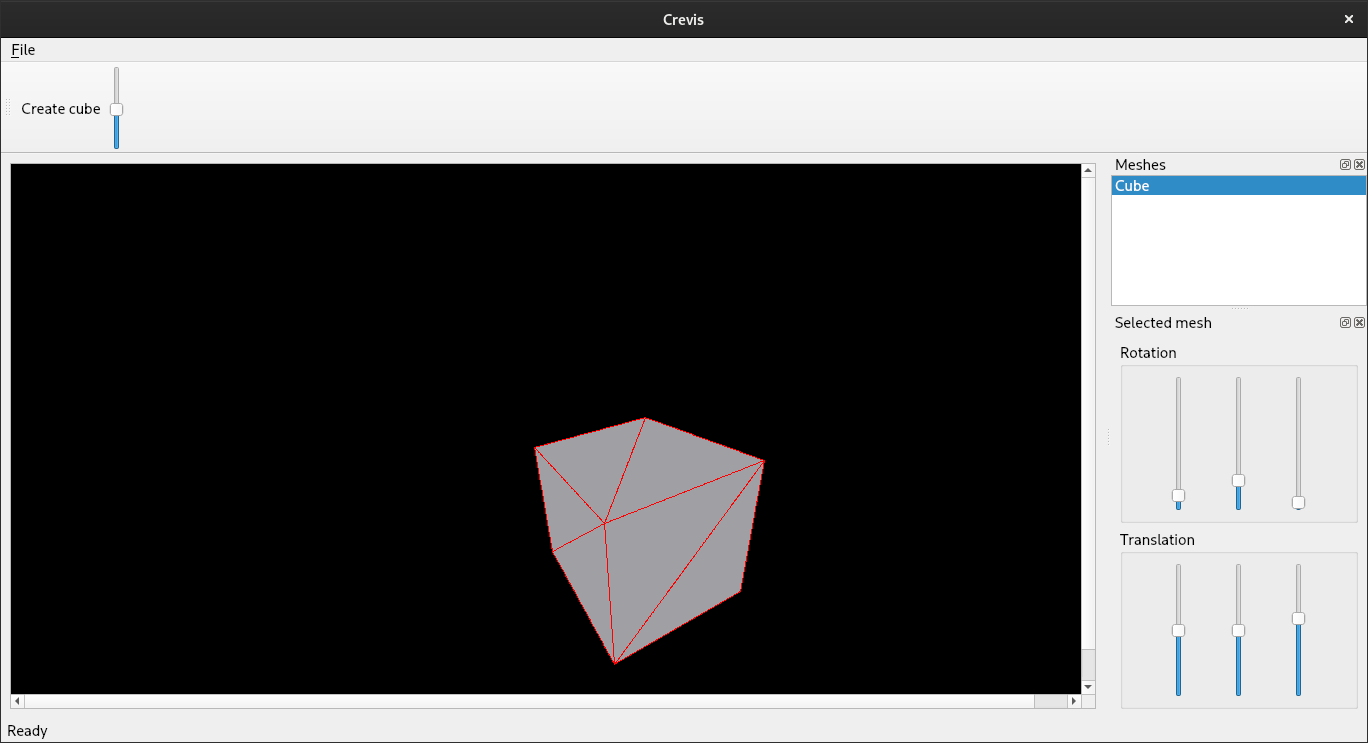
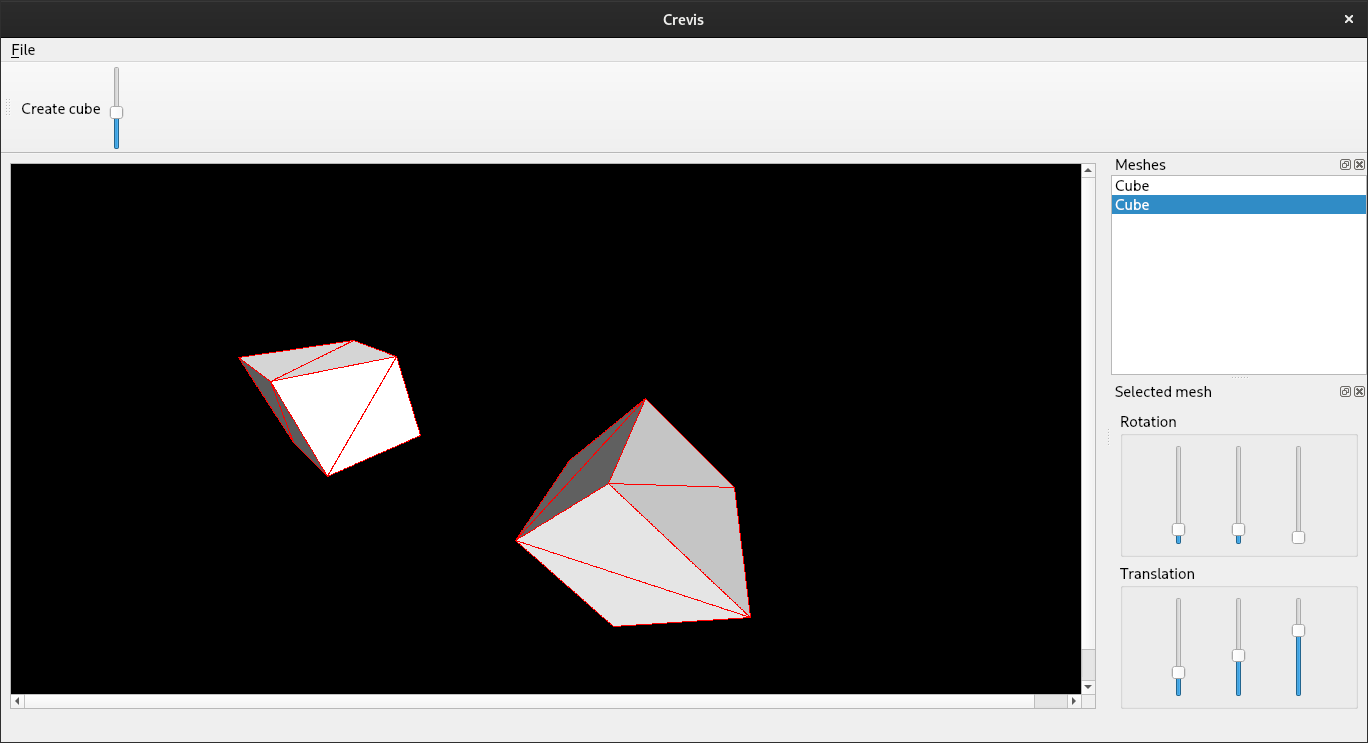
implemented a basic shader based on how much a triangle faces the camera

diff --git a/src/renderer/renderer.cpp b/src/renderer/renderer.cpp
@@ -153,6 +153,7 @@ void Renderer::render()
     image = new QImage(width, height, QImage::Format_RGB32);
 
     std::vector<Triangle> triangles;
+    std::vector<double> triangleFaceDirections; // keep track of how much the triangle faces the camera
 
     // collect all triangles in a single vector sorted by avgZ
     // to paint farthest triangles first
@@ -162,9 +163,10 @@ void Renderer::render()
         {
             Vec3d normalVec = crossProd(t.p2 - t.p1, t.p3 - t.p1);
             Vec3d viewDir = t.p1 - *cameraPos;
+            double faceDirection = normalVec * viewDir;
 
             // filter out triangles not facing the camera
-            if (normalVec * viewDir < 0)
+            if (faceDirection < 0)
             {
                 if (triangles.size() > 0)
                 {
@@ -190,24 +192,27 @@ void Renderer::render()
                     }
 
                     triangles.insert(triangles.begin() + m, t);
+                    triangleFaceDirections.insert(triangleFaceDirections.begin() + m, faceDirection);
                 }
                 else
                 {
                     triangles.push_back(t);
+                    triangleFaceDirections.push_back(faceDirection);
                 }
             }
         }
     }
 
-    for (Triangle t : triangles)
+    for (unsigned int i = 0; i < triangles.size(); i++)
     {
         // 3D projection
-        Vec2d p1Proj = projectVec3d(t.p1);
-        Vec2d p2Proj = projectVec3d(t.p2);
-        Vec2d p3Proj = projectVec3d(t.p3);
+        Vec2d p1Proj = projectVec3d(triangles[i].p1);
+        Vec2d p2Proj = projectVec3d(triangles[i].p2);
+        Vec2d p3Proj = projectVec3d(triangles[i].p3);
 
         // fill projected triangle
-        fillTriangle(p1Proj, p2Proj, p3Proj, Qt::gray);
+        unsigned int colorVal = std::min(255, (int) (triangleFaceDirections[i] * (-255)));
+        fillTriangle(p1Proj, p2Proj, p3Proj, QColor (colorVal, colorVal, colorVal));
 
         // draw outlines of projected triangle
         drawLine(p1Proj, p2Proj, Qt::red);
